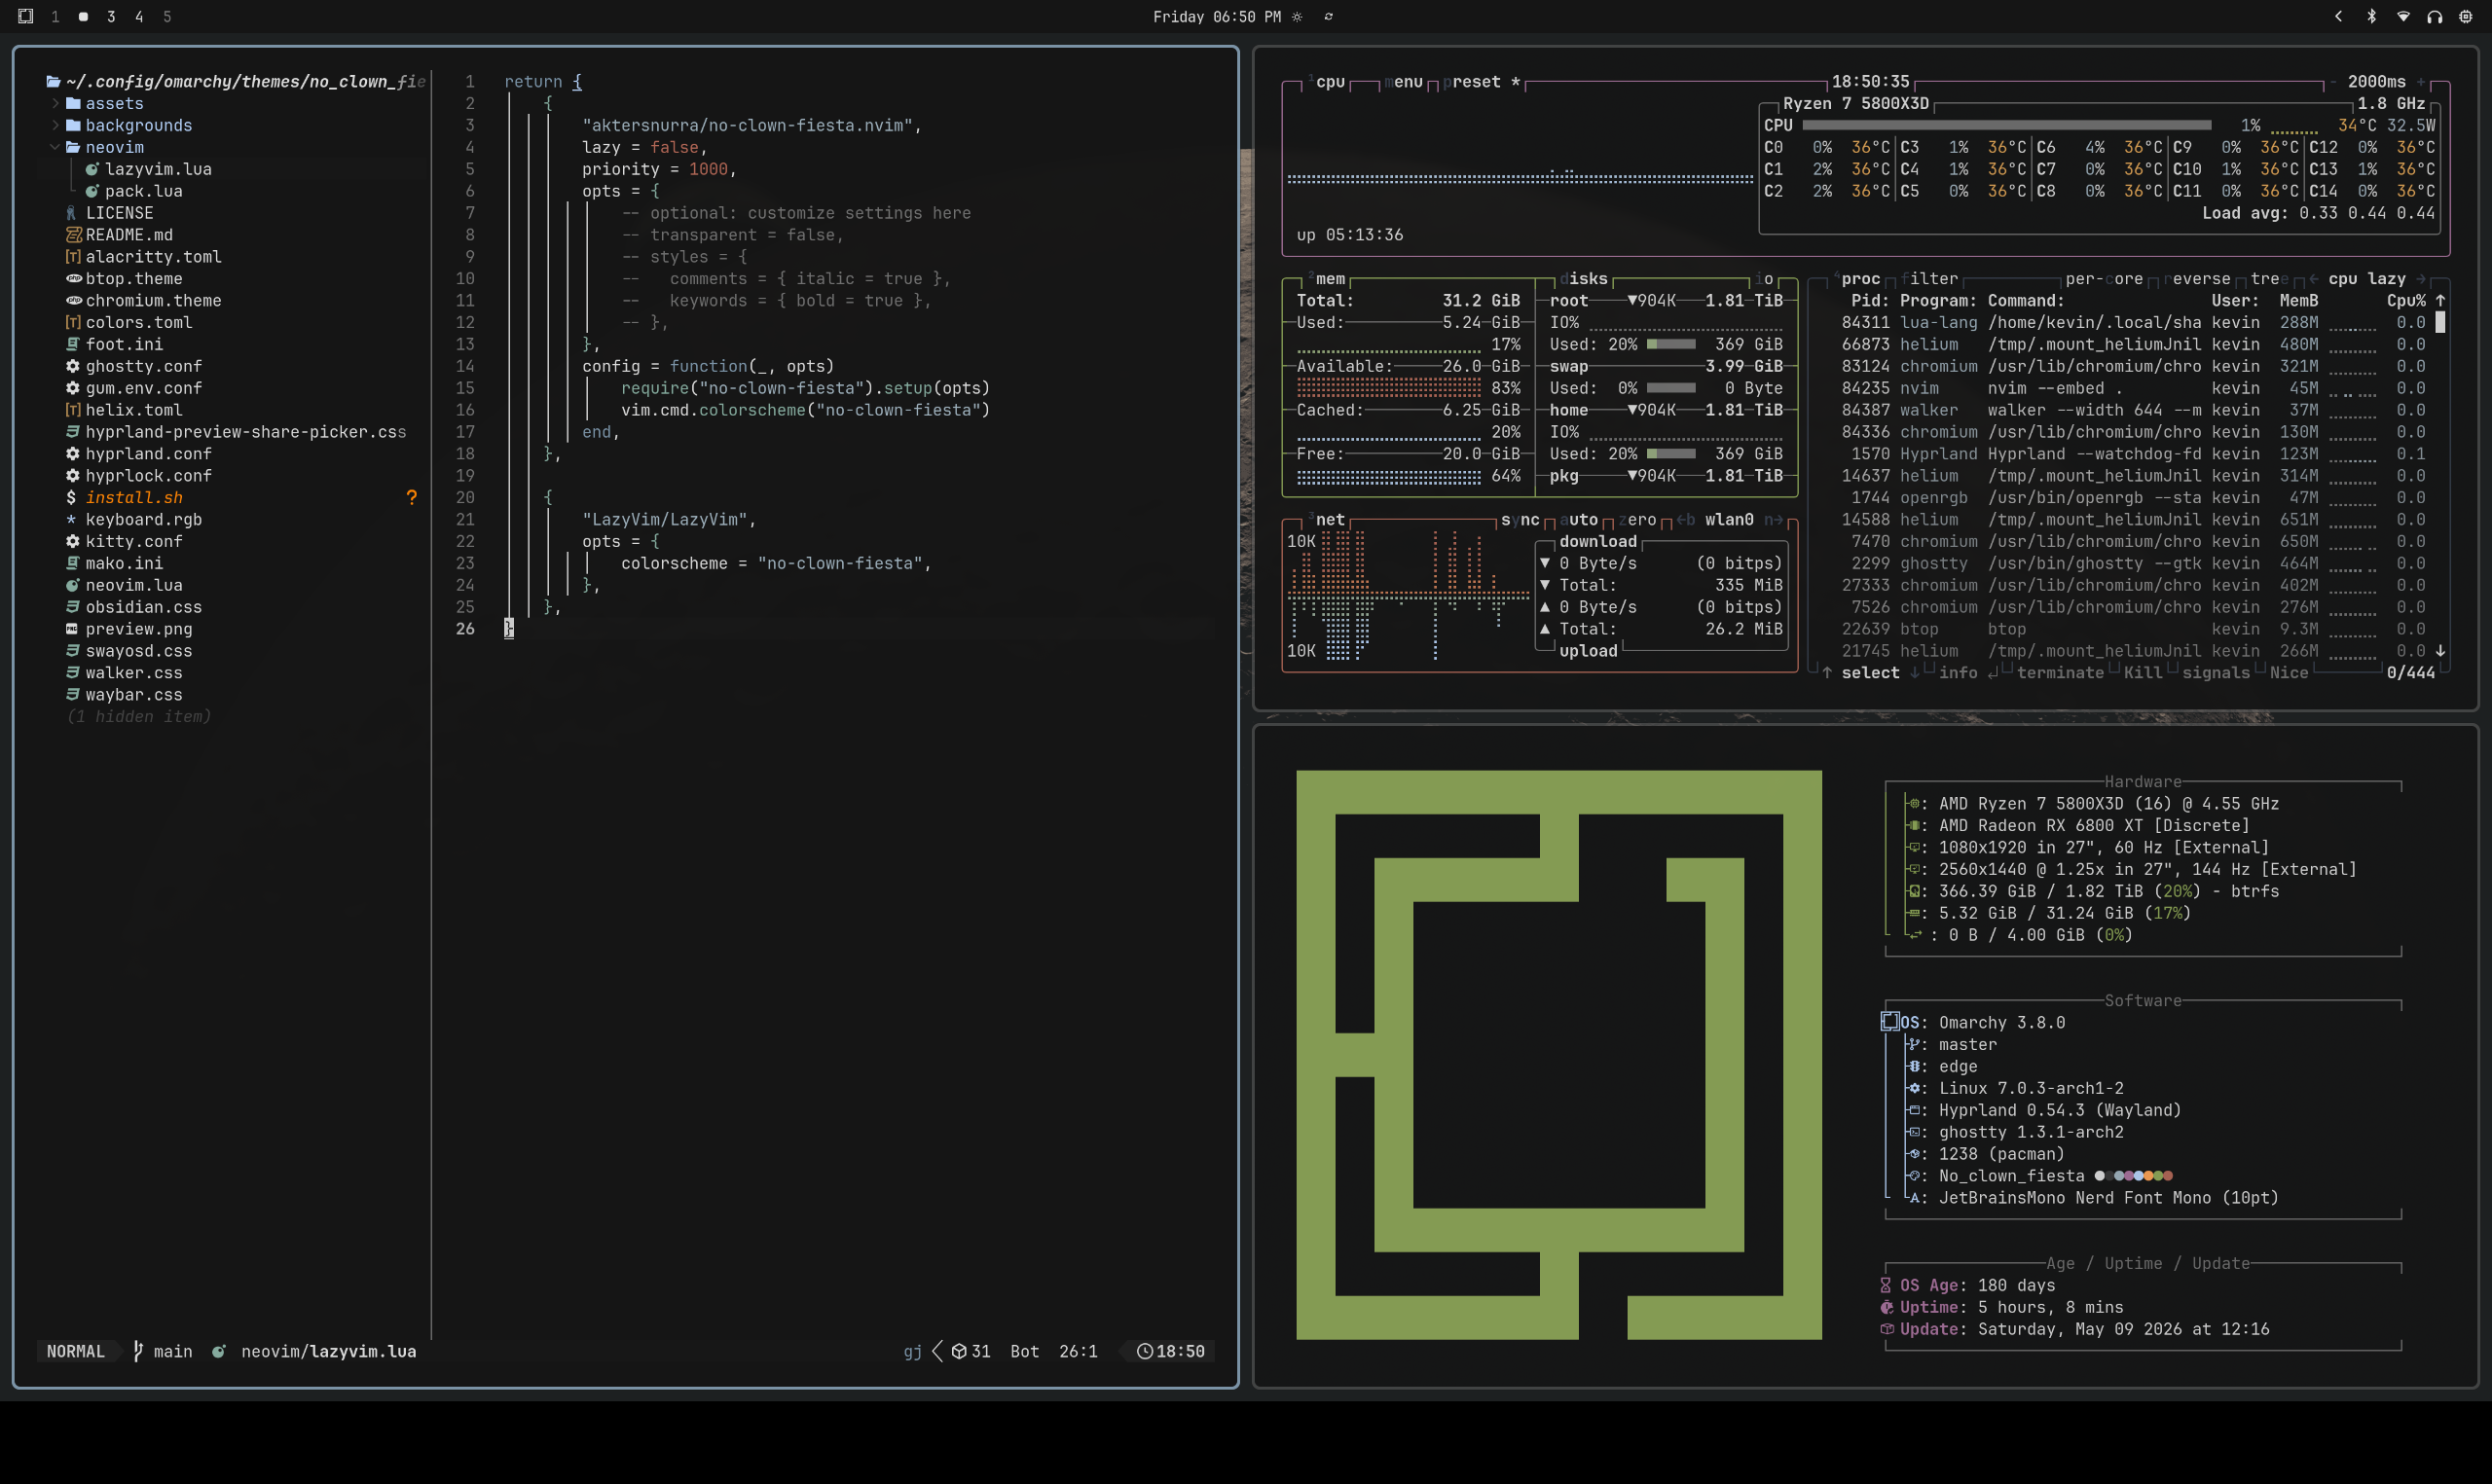
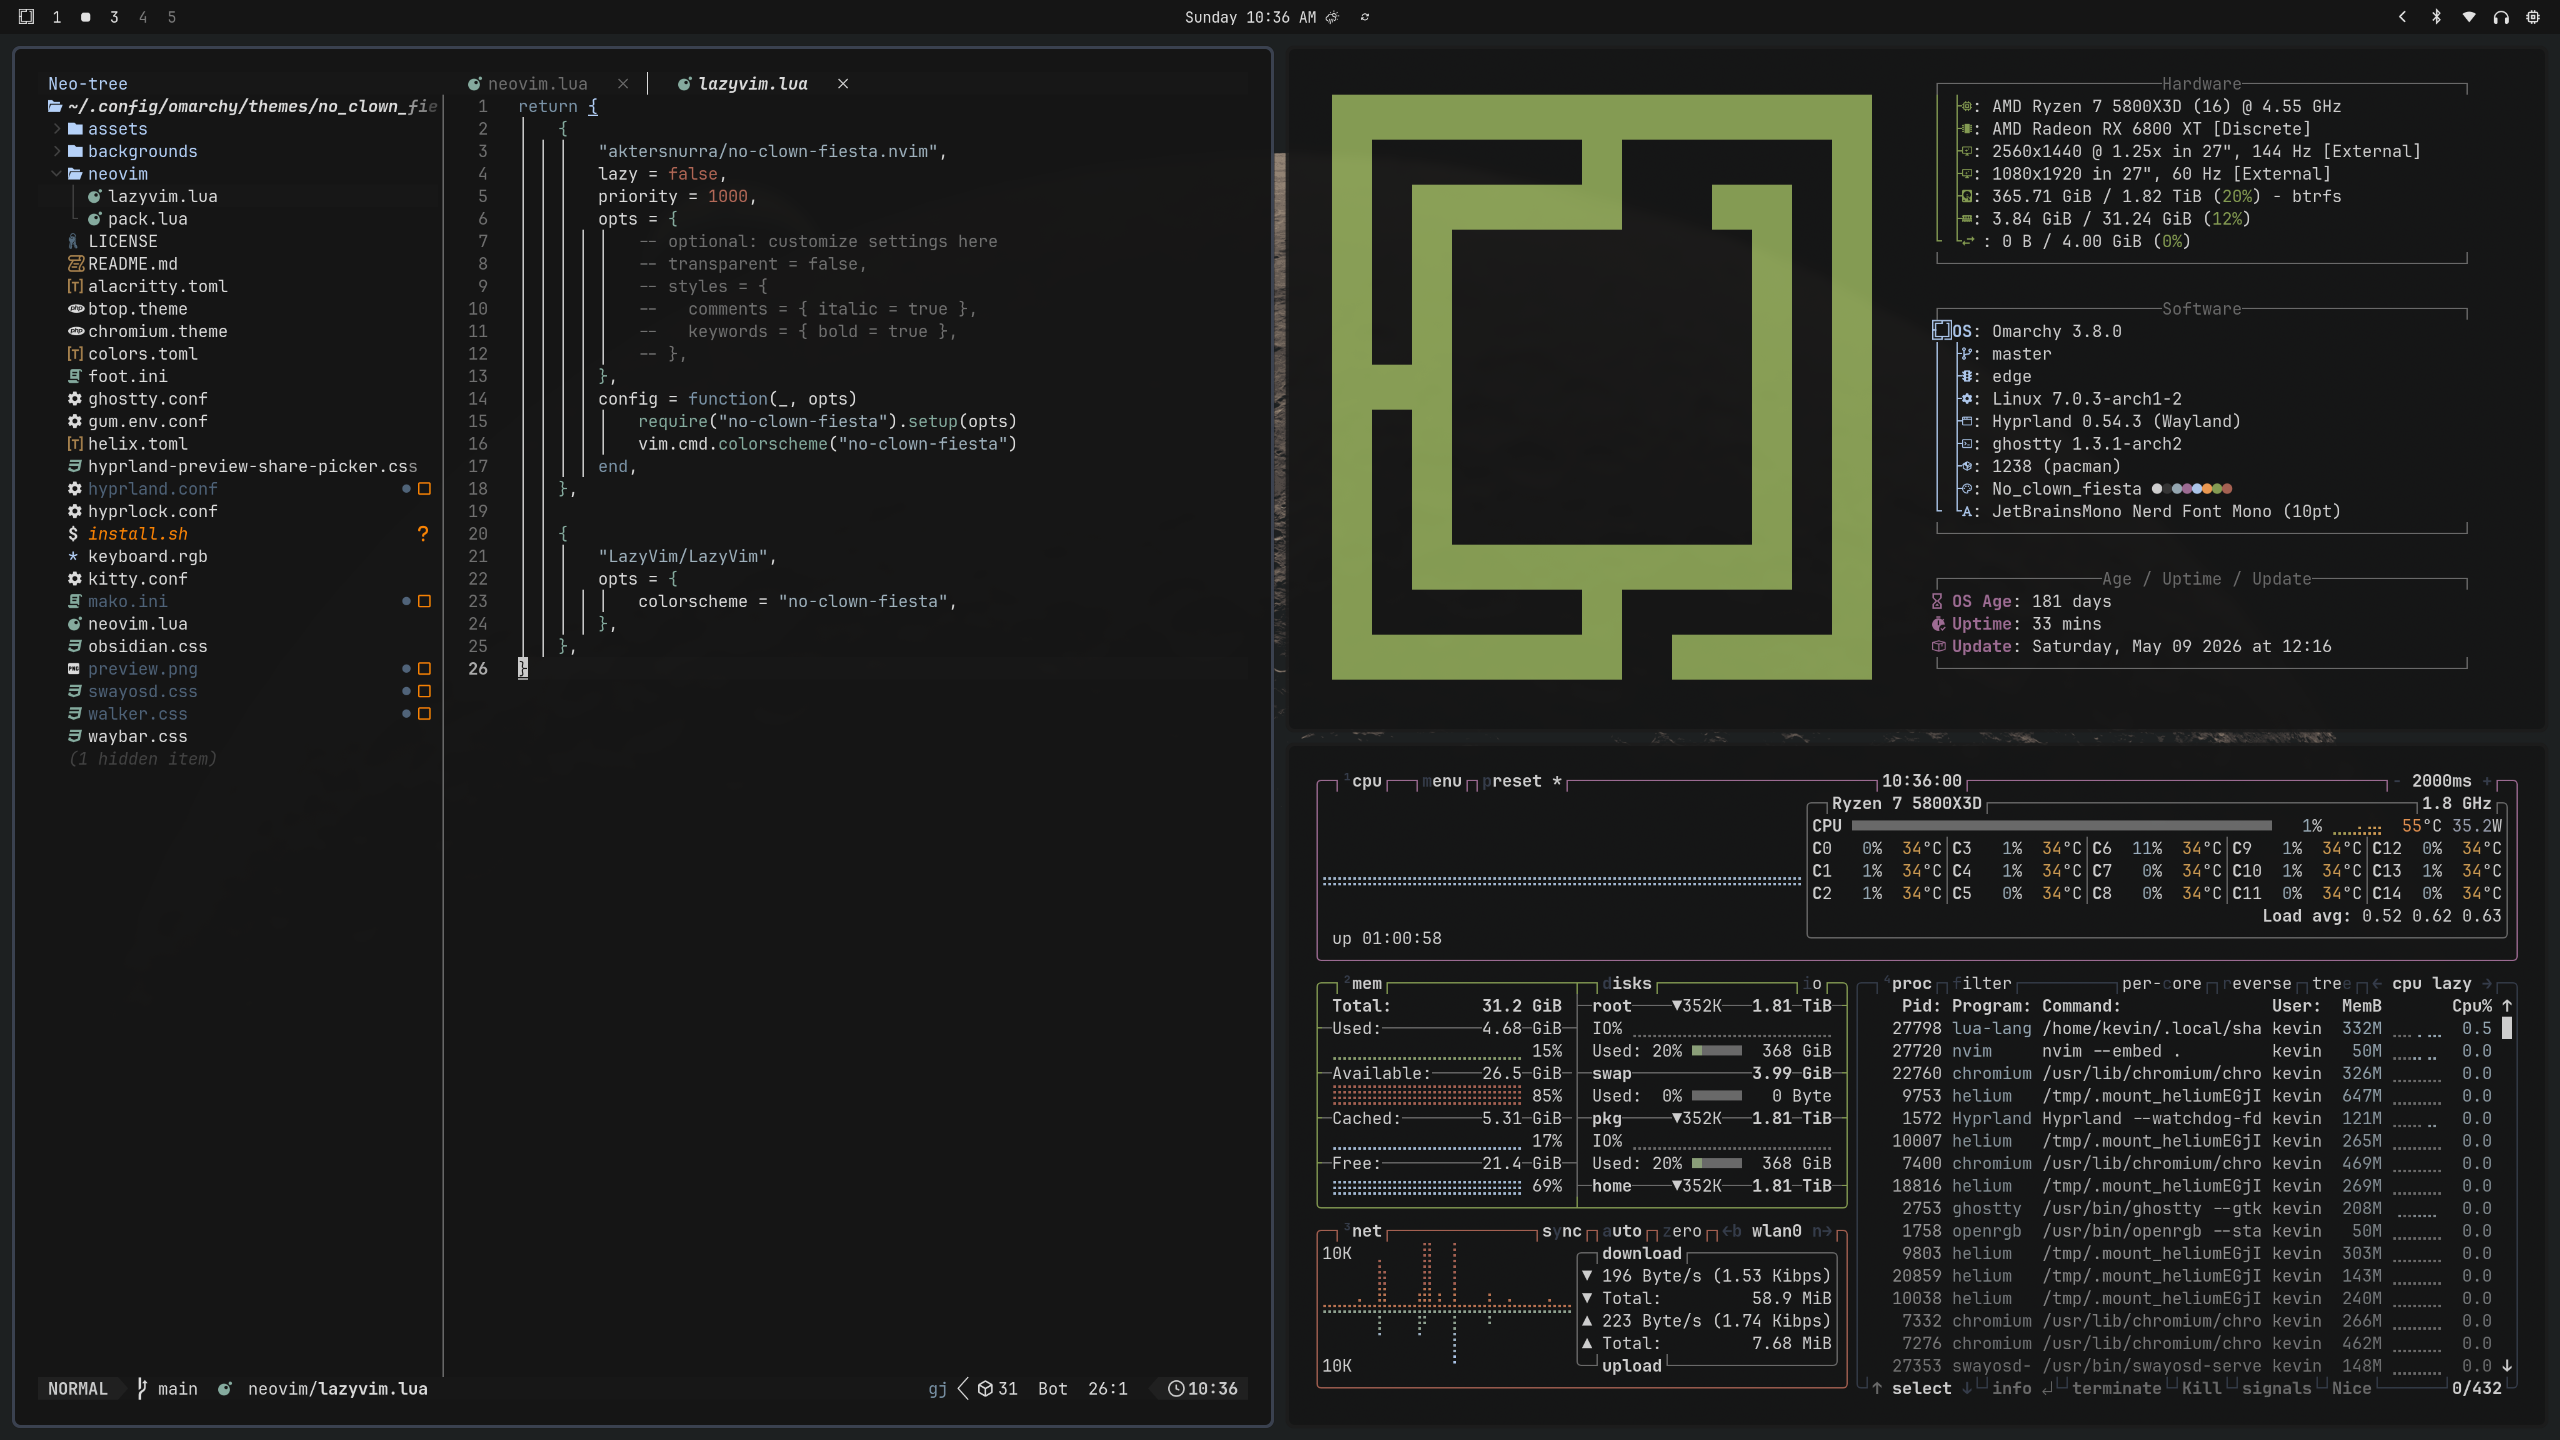
feat: fixing colors, update preview

diff --git a/swayosd.css b/swayosd.css
@@ -1,5 +1,9 @@
 @define-color background-color #151515;
-@define-color border-color #E1E1E1;
+@define-color border-color #7E97AB;
 @define-color label #E1E1E1;
 @define-color image #E1E1E1;
 @define-color progress #38404f;
+
+window#osd{
+    border-radius: 5px;
+}

diff --git a/walker.css b/walker.css
@@ -6,6 +6,6 @@
 @define-color background #151515;
 
 .box-wrapper {
-  border-radius: 20px;
+  border-radius: 10px;
 }
 